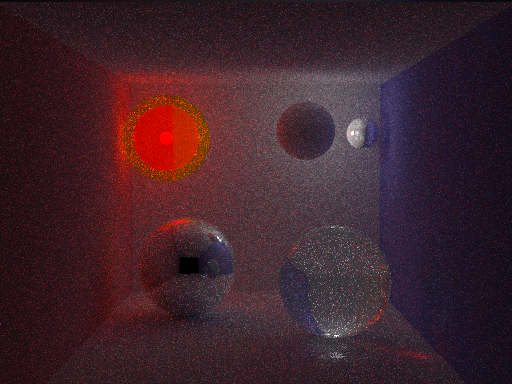
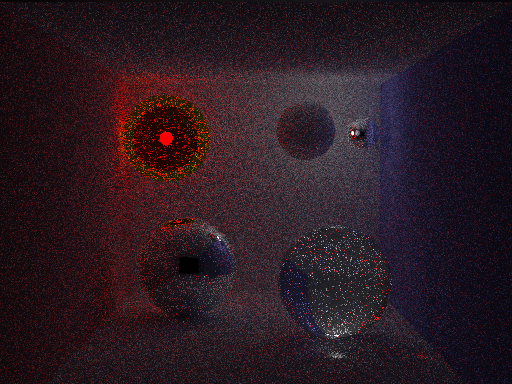
Fix issue with light contribution in dynamic sampling

diff --git a/src/dynamic_sampling_cpu.rs b/src/dynamic_sampling_cpu.rs
@@ -13,7 +13,7 @@ pub fn radiance_dynamic_sampling(ray: Ray, max_depth: usize, monte_carlo_depth: 
     let mut ray_queue: Vec<(usize, DVec3, Ray)> = Vec::<(usize, DVec3, Ray)>::new();
     ray_queue.push((0, DVec3::broadcast(1.0), ray.clone()));
 
-    let extra_diffuse_samples_count: i32 = 1;
+    let extra_diffuse_samples_count: i32 = 2;
     let extra_diffuse_bounce_max_depth: usize = 2;
     let light_sample_count: i32 = 1;
 
@@ -71,28 +71,34 @@ pub fn radiance_dynamic_sampling(ray: Ray, max_depth: usize, monte_carlo_depth: 
                 attenuation *= 1.0 / p;
             } 
 
-            // Generate light sampling rays
-            for _ in 0..light_sample_count {
-                let light_index: usize = rand::thread_rng().gen_range(0..LIGHTS.len()) as usize;
-                let light: &Light = &LIGHTS[light_index];
-                let on_light: DVec3 = random_on_sphere(light.radius, &light.position);
-                let mut to_light: DVec3 = on_light - hit_position;
-                let light_distance_squared: f64 = to_light.mag_sq();
-                to_light.normalize();
-                let new_ray: Ray = Ray::new(hit_position, to_light);
-                if intersect(&new_ray, &mut t, &mut id) { 
-                    if id == light.spheres_index {
-                        let cos_theta_max: f64 = (1.0 - light.radius * light.radius / light_distance_squared).sqrt();
-                        let solid_angle: f64 = 2.0 * PI * (1.0 - cos_theta_max);
-                        let light_pdf: f64 = 1.0 / solid_angle;
-                        if light_pdf < 0.0000001 { continue; }
-                        let contribution: DVec3 = SPHERES[light.spheres_index].emission * attenuation / light_pdf;
-                        if contribution.x.is_nan() || contribution.y.is_nan() || contribution.z.is_nan() { continue; }
-                        radiance += contribution;
-                        total_samples += 1;
-                    }
+            match hit_object.reflection {
+                ReflectionType::SPECULAR => {},
+                ReflectionType::REFRACTIVE => {},
+                _ => {
+                    // Generate light sampling rays
+                    for _ in 0..light_sample_count {
+                        let light_index: usize = rand::thread_rng().gen_range(0..LIGHTS.len()) as usize;
+                        let light: &Light = &LIGHTS[light_index];
+                        let on_light: DVec3 = random_on_sphere(light.radius, &light.position);
+                        let mut to_light: DVec3 = on_light - hit_position;
+                        let light_distance_squared: f64 = to_light.mag_sq();
+                        to_light.normalize();
+                        let new_ray: Ray = Ray::new(hit_position, to_light);
+                        if intersect(&new_ray, &mut t, &mut id) { 
+                            if id == light.spheres_index {
+                                let cos_theta_max: f64 = (1.0 - light.radius * light.radius / light_distance_squared).sqrt();
+                                let solid_angle: f64 = 2.0 * PI * (1.0 - cos_theta_max);
+                                let light_pdf: f64 = 1.0 / solid_angle;
+                                if light_pdf < 0.0000001 { continue; }
+                                let contribution: DVec3 = 0.5 * SPHERES[light.spheres_index].emission * attenuation / light_pdf;
+                                if contribution.x.is_nan() || contribution.y.is_nan() || contribution.z.is_nan() { continue; }
+                                radiance += contribution;
+                                total_samples += 1;
+                            }
 
-                };
+                        };
+                    }
+                }
             }
 
             if max_depth <= depth {

diff --git a/src/shared.rs b/src/shared.rs
@@ -128,7 +128,7 @@ impl RenderContext {
         let height: usize = 384;
         let max_depth: usize = 50;
         let monte_carlo_depth: usize = 6;
-        let subpixels_count: usize = 4;
+        let subpixels_count: usize = 3;
         let subpixels_offset: f64 = 1.0 / subpixels_count as f64;
         let subsamples_count: usize = 5;
         let sample_scale: f64 = 1.0 / (subpixels_count * subpixels_count * subsamples_count) as f64;
@@ -139,7 +139,7 @@ impl RenderContext {
 
         let total_pixels: usize = height * width;
 
-        let algorithm: LightTransportAlgorithm = LightTransportAlgorithm::MIXTURE_PDF;
+        let algorithm: LightTransportAlgorithm = LightTransportAlgorithm::DYNAMIC_SAMPLING;
 
         RenderContext { width, height, max_depth, monte_carlo_depth, subpixels_count, subpixels_offset, subsamples_count, sample_scale, camera, cx, cy, total_pixels, algorithm }
     }
